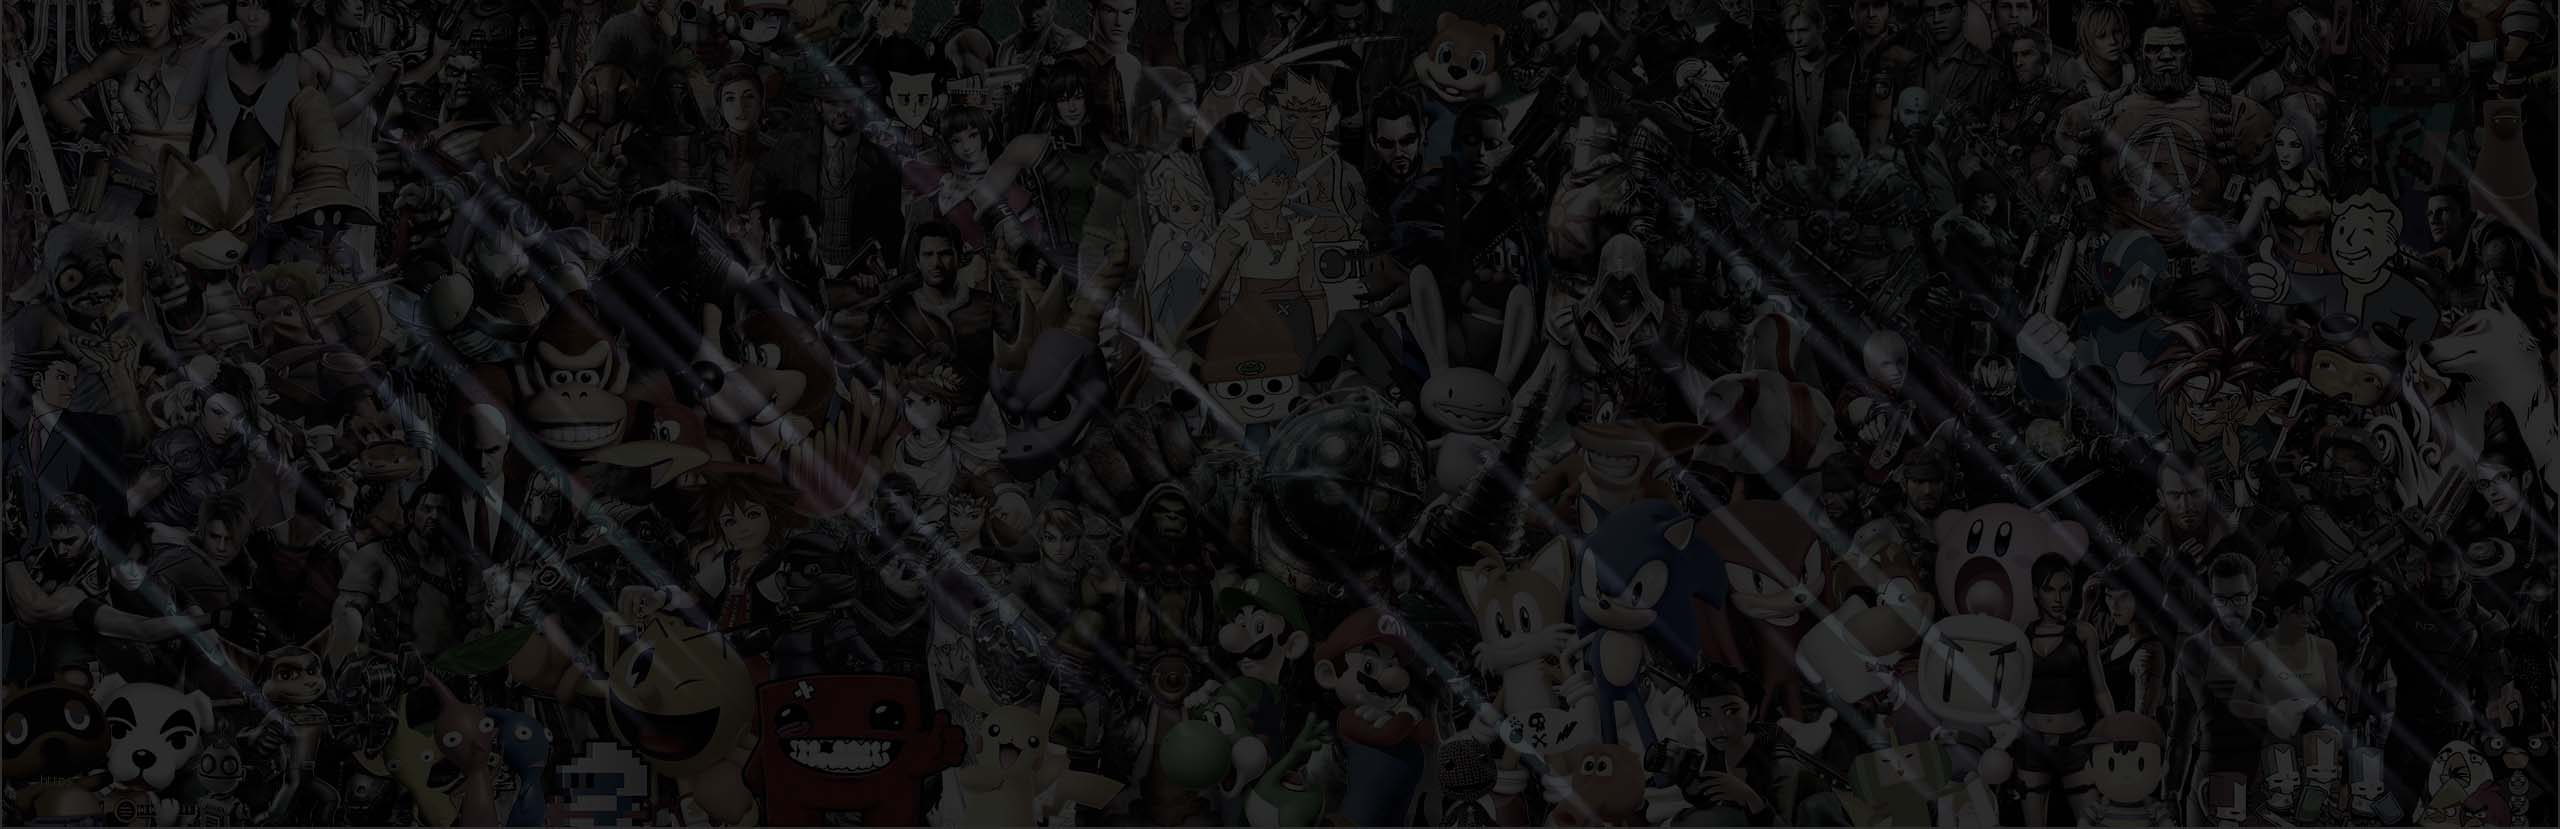
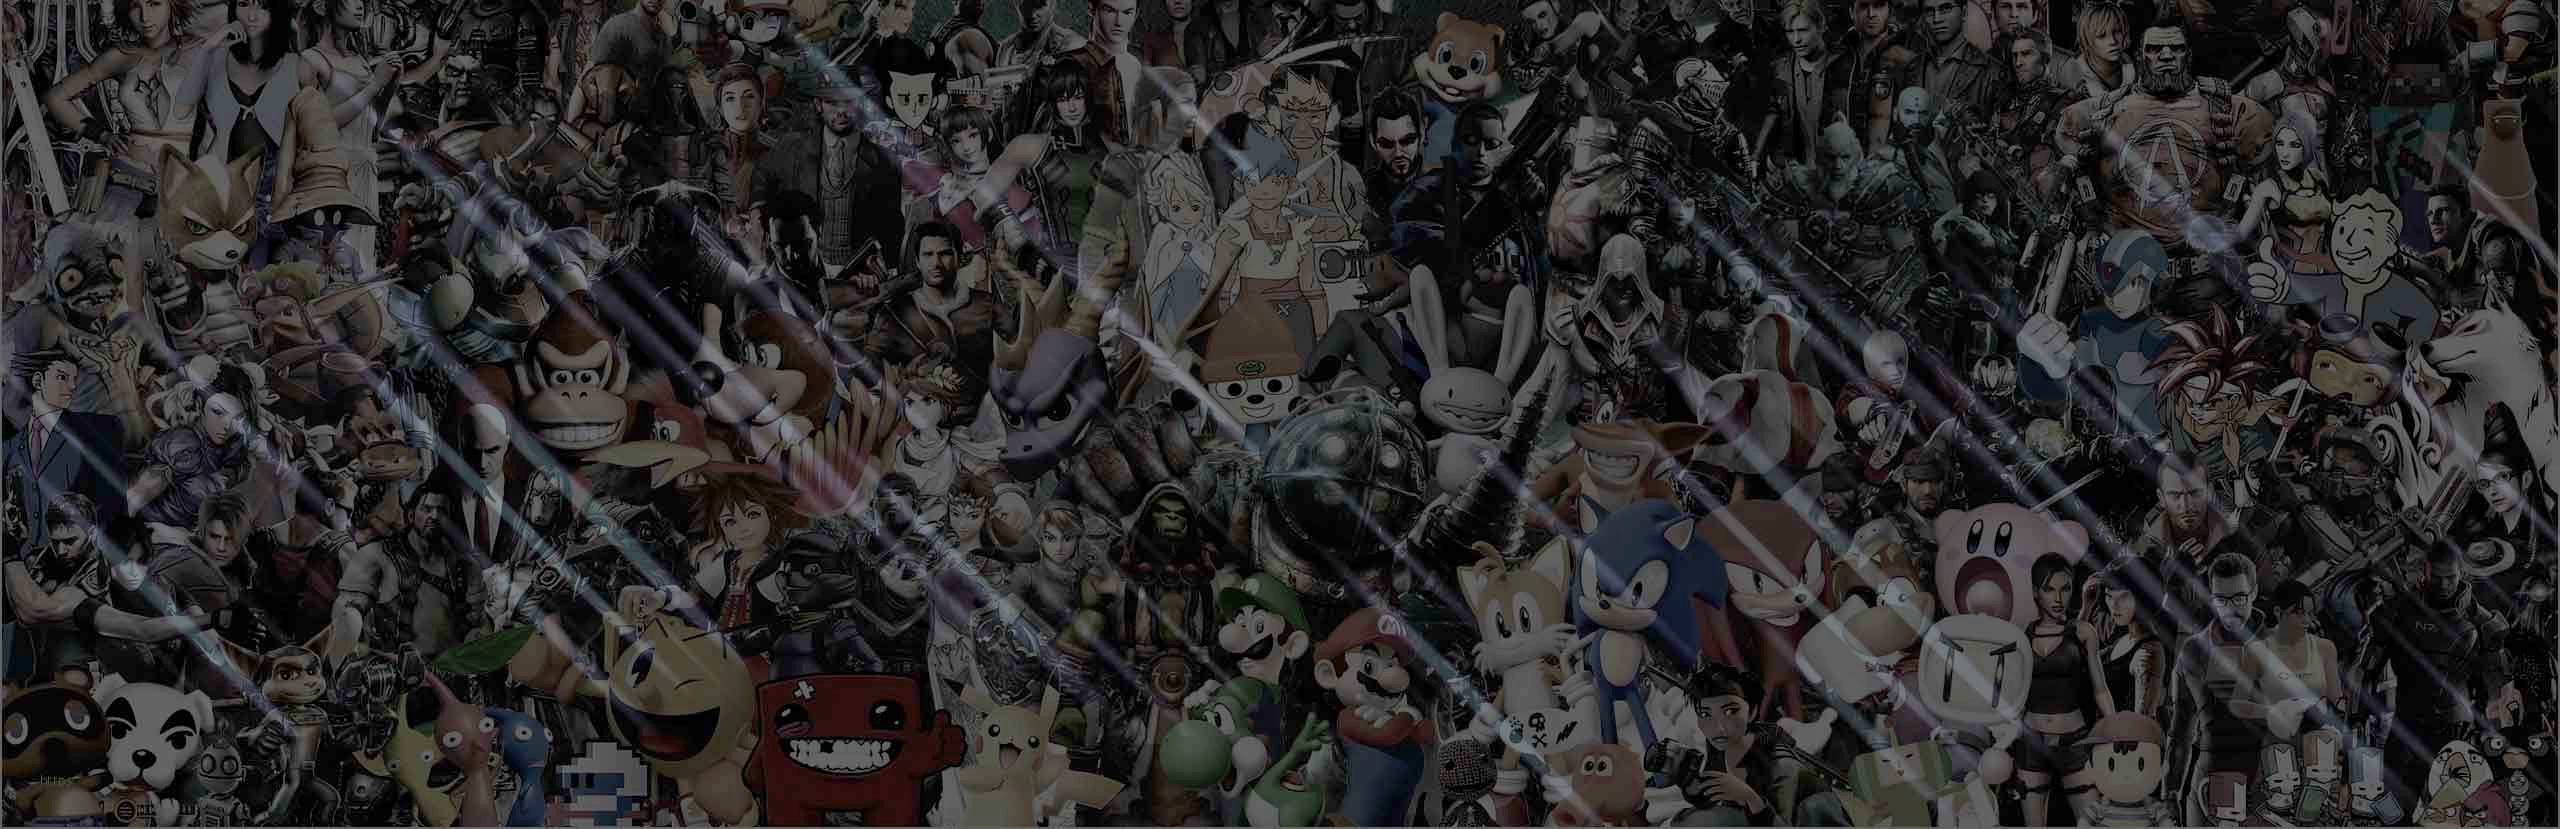
General: update luminozitate cover image si update TODO

diff --git a/TODO.md b/TODO.md
@@ -2,7 +2,8 @@
 ### General
 * [ ] De stabilit categorii fixe
 * [ ] Logo - improve
-* [ ] Buton Forum mai proeminent (?)
+* [x] Buton Forum mai proeminent
+* [ ] Pagină credits, cu link în footer - Hugo, Casper, font, imagine fundal etc.
 
 ### Prima pagină
 * [ ] De testat și modificat pentru cazurile cu autor/avatar lipsă sau default
